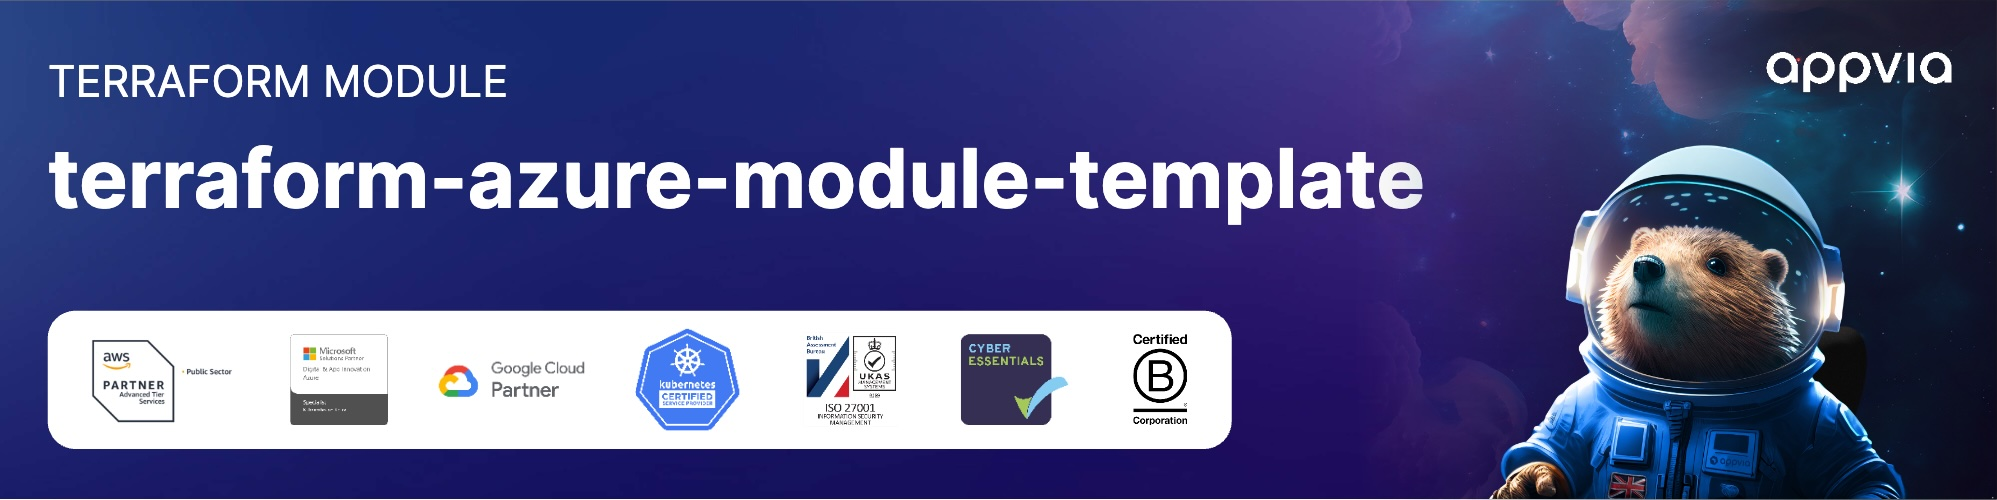
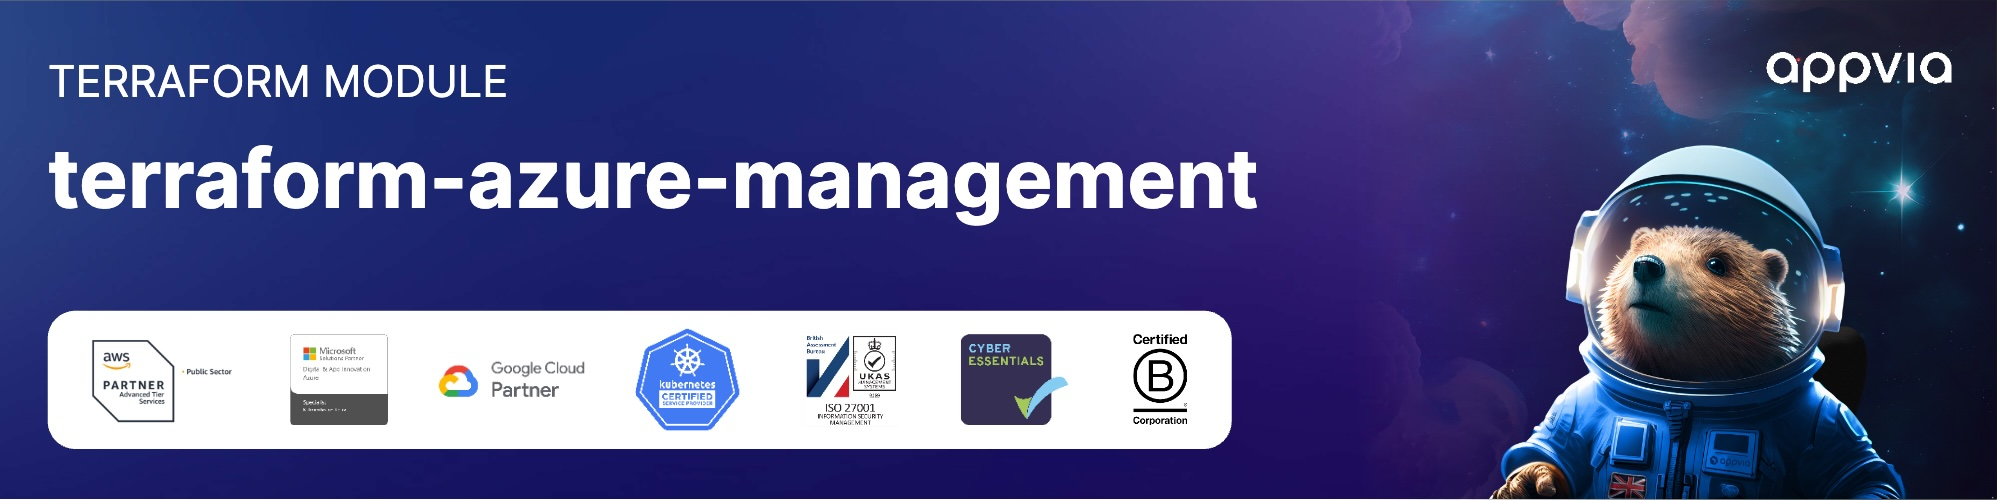
feat: initial import

Changed region(s): [[0.4036, 0.3, 0.7141, 0.45]]

diff --git a/README.md b/README.md
@@ -1,6 +1,6 @@
 <!-- markdownlint-disable -->
 
-<a href="https://www.appvia.io/"><img src="./docs/banner.jpg" alt="Appvia Banner"/></a><br/><p align="right"> </a> <a href="https://github.com/appvia/terraform-azure-module-template/releases/latest"><img src="https://img.shields.io/github/release/appvia/terraform-azure-module-template.svg?style=for-the-badge&color=006400" alt="Latest Release"/></a> <a href="https://appvia-community.slack.com/join/shared_invite/zt-1s7i7xy85-T155drryqU56emm09ojMVA#/shared-invite/email"><img src="https://img.shields.io/badge/Slack-Join%20Community-purple?style=for-the-badge&logo=slack" alt="Slack Community"/></a> <a href="https://github.com/appvia/terraform-azure-module-template/graphs/contributors"><img src="https://img.shields.io/github/contributors/appvia/terraform-azure-module-template.svg?style=for-the-badge&color=FF8C00" alt="Contributors"/></a>
+<a href="https://www.appvia.io/"><img src="./docs/banner.jpg" alt="Appvia Banner"/></a><br/><p align="right"> </a> <a href="https://github.com/appvia/terraform-azure-management/releases/latest"><img src="https://img.shields.io/github/release/appvia/terraform-azure-management.svg?style=for-the-badge&color=006400" alt="Latest Release"/></a> <a href="https://appvia-community.slack.com/join/shared_invite/zt-1s7i7xy85-T155drryqU56emm09ojMVA#/shared-invite/email"><img src="https://img.shields.io/badge/Slack-Join%20Community-purple?style=for-the-badge&logo=slack" alt="Slack Community"/></a> <a href="https://github.com/appvia/terraform-azure-management/graphs/contributors"><img src="https://img.shields.io/github/contributors/appvia/terraform-azure-management.svg?style=for-the-badge&color=FF8C00" alt="Contributors"/></a>
 
 <!-- markdownlint-restore -->
 <!--
@@ -9,24 +9,13 @@
 
 ![Github Actions](../../actions/workflows/terraform.yml/badge.svg)
 
-# Terraform <NAME>
+# Terraform Azure Landing Zone Management Module
 
 ## Description
 
-Add a description of the module here
+The module deploys the [management and monitoring](https://learn.microsoft.com/azure/cloud-adoption-framework/ready/landing-zone/design-area/management) resources from the [conceptual architecture for Azure landing zones](https://learn.microsoft.com/azure/cloud-adoption-framework/ready/landing-zone/#azure-landing-zone-conceptual-architecture) into the specified subscription, based on the configuration supplied. The module also ensures that the specified subscription is placed in the right management group.
 
-## Usage
-
-Add example usage here
-
-```hcl
-module "example" {
-  source  = "appvia/<NAME>/azure"
-  version = "0.0.1"
-
-  # insert variables here
-}
-```
+![Management Resources](./docs/management-resources.png)
 
 ## Update Documentation
 
@@ -39,13 +28,26 @@ The `terraform-docs` utility is used to generate this README. Follow the below s
 <!-- BEGIN_TF_DOCS -->
 ## Providers
 
-No providers.
+| Name | Version |
+|------|---------|
+| <a name="provider_azurerm"></a> [azurerm](#provider\_azurerm) | >= 3.65.0 |
 
 ## Inputs
 
-No inputs.
+| Name | Description | Type | Default | Required |
+|------|-------------|------|---------|:--------:|
+| <a name="input_management_resources_configuration"></a> [management\_resources\_configuration](#input\_management\_resources\_configuration) | Configuration settings for the "management" resources. | <pre>object({<br/>    settings = optional(object({<br/>      ama = optional(object({<br/>        enable_uami                                                         = optional(bool, true)<br/>        enable_vminsights_dcr                                               = optional(bool, true)<br/>        enable_change_tracking_dcr                                          = optional(bool, true)<br/>        enable_mdfc_defender_for_sql_dcr                                    = optional(bool, true)<br/>        enable_mdfc_defender_for_sql_query_collection_for_security_research = optional(bool, true)<br/>      }), {})<br/>      log_analytics = optional(object({<br/>        enabled = optional(bool, true)<br/>        config = optional(object({<br/>          daily_quota_gb                         = optional(number, -1)<br/>          retention_in_days                      = optional(number, 30)<br/>          enable_monitoring_for_vm               = optional(bool, true)<br/>          enable_monitoring_for_vmss             = optional(bool, true)<br/>          enable_sentinel                        = optional(bool, true)<br/>          enable_change_tracking                 = optional(bool, true)<br/>          enable_solution_for_vm_insights        = optional(bool, true)<br/>          enable_solution_for_container_insights = optional(bool, true)<br/>          sentinel_customer_managed_key_enabled  = optional(bool, false) # not used at this time<br/>        }), {})<br/>      }), {})<br/>      security_center = optional(object({<br/>        enabled = optional(bool, true)<br/>        config = optional(object({<br/>          email_security_contact                                = optional(string, "security_contact@replace_me")<br/>          enable_defender_for_app_services                      = optional(bool, true)<br/>          enable_defender_for_arm                               = optional(bool, true)<br/>          enable_defender_for_containers                        = optional(bool, true)<br/>          enable_defender_for_cosmosdbs                         = optional(bool, true)<br/>          enable_defender_for_cspm                              = optional(bool, true)<br/>          enable_defender_for_key_vault                         = optional(bool, true)<br/>          enable_defender_for_oss_databases                     = optional(bool, true)<br/>          enable_defender_for_servers                           = optional(bool, true)<br/>          enable_defender_for_servers_vulnerability_assessments = optional(bool, true)<br/>          enable_defender_for_sql_servers                       = optional(bool, true)<br/>          enable_defender_for_sql_server_vms                    = optional(bool, true)<br/>          enable_defender_for_storage                           = optional(bool, true)<br/>        }), {})<br/>      }), {})<br/>    }), {})<br/>    location = optional(string, "")<br/>    tags     = optional(any, {})<br/>    advanced = optional(any, {})<br/>  })</pre> | n/a | yes |
+| <a name="input_primary_location"></a> [primary\_location](#input\_primary\_location) | Sets the location for "primary" resources to be created in. | `string` | n/a | yes |
+| <a name="input_management_resources_tags"></a> [management\_resources\_tags](#input\_management\_resources\_tags) | Specify tags to add to "management" resources. | `map(string)` | <pre>{<br/>  "BusinessCriticality": "Mission-critical",<br/>  "BusinessUnit": "Platform Operations",<br/>  "DataClassification": "General",<br/>  "OperationsTeam": "Platform Operations",<br/>  "WorkloadName": "ALZ.Management"<br/>}</pre> | no |
+| <a name="input_root_id"></a> [root\_id](#input\_root\_id) | Sets the value used for generating unique resource naming within the module. | `string` | `"alz"` | no |
+| <a name="input_use_oidc"></a> [use\_oidc](#input\_use\_oidc) | Set to true to enable OIDC authentication for the Azure connection. | `bool` | `true` | no |
 
 ## Outputs
 
-No outputs.
+| Name | Description |
+|------|-------------|
+| <a name="output_action_group_id"></a> [action\_group\_id](#output\_action\_group\_id) | Action Group ID for the "management" resources. |
+| <a name="output_configuration"></a> [configuration](#output\_configuration) | Configuration settings for the "management" resources. |
+| <a name="output_log_analytics_workspace_ids"></a> [log\_analytics\_workspace\_ids](#output\_log\_analytics\_workspace\_ids) | Log Analytics Workspace ID for the "management" resources. |
+| <a name="output_subscription_id"></a> [subscription\_id](#output\_subscription\_id) | Subscription ID for the "management" resources. |
 <!-- END_TF_DOCS -->
